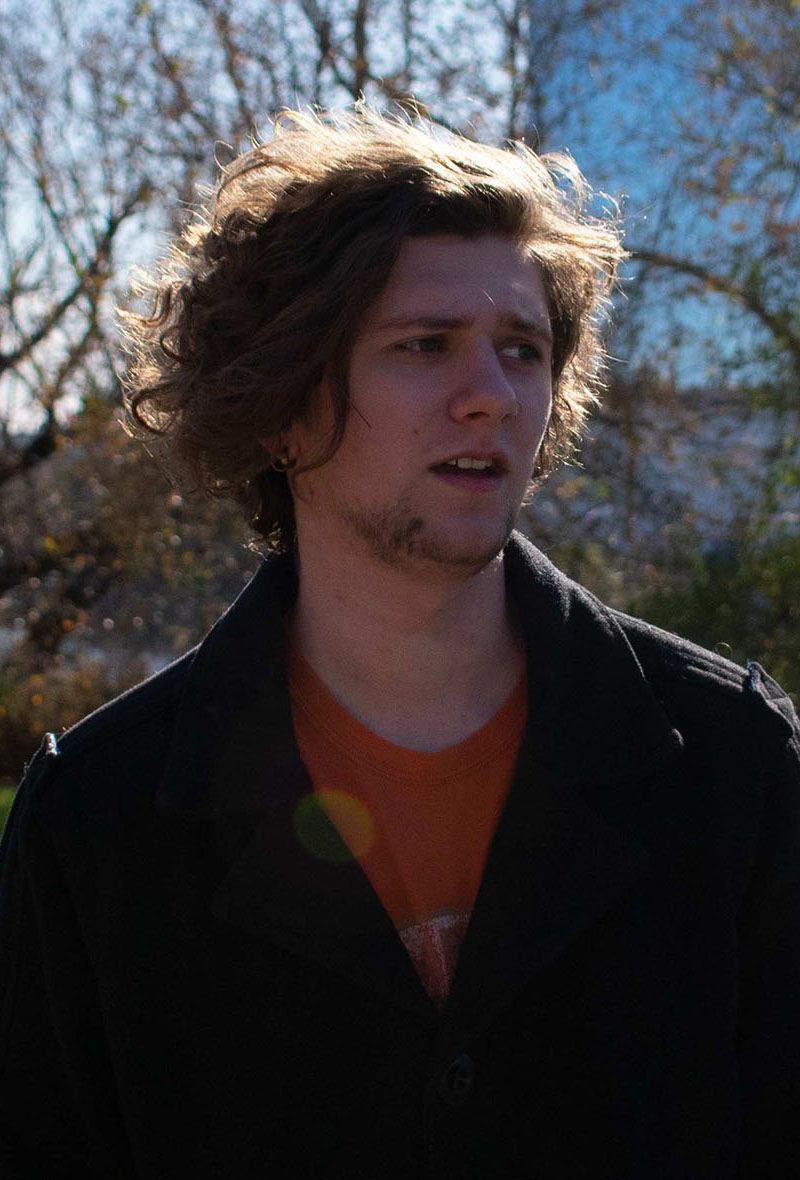
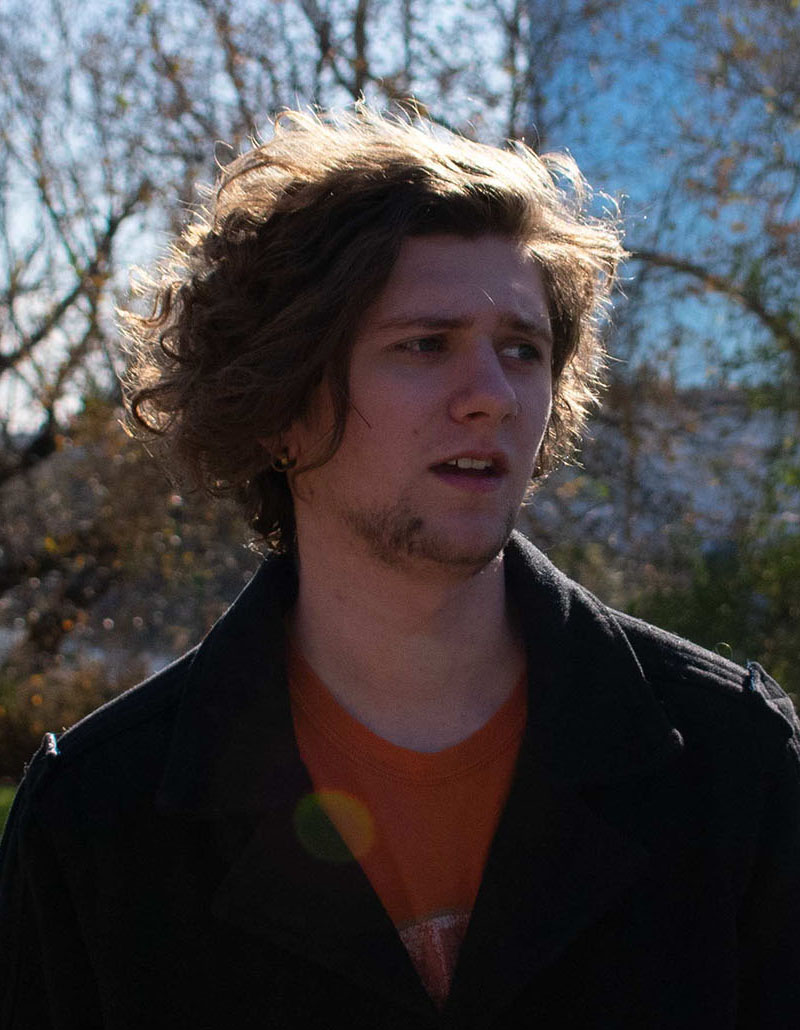
removed weird side border, cropped an image

diff --git a/about.html b/about.html
@@ -65,7 +65,7 @@
                     Hi. I am a student at Drexel University in the Interactive Digital Media program. I transferred in after one year of computer science, having found myself wanting to design a lot more than I wanted to code. I'm able to express myself artistically and creatively in ways I wasn't able to in computer science.
                 </p>
             </div>
-            <div class="main" id="item">
+            <div class="main2">
                 <picture>
                     <source srcset="images/about2.jpg" media="(max-width: 40em)">
                     <img class="indeximage" src="images/about1.jpg" alt="Wynn's Photo">
@@ -95,7 +95,7 @@
                 <li>Bachelor of Science in Interactive Digital Media,</li>
                 <li>User Experience and User Interface Concentration</li>
                 <li>Anticipated Graduation: June 2022</li>
-                <li>Cumulative GPA 3.65</li>
+                <li>Cumulative GPA: 3.65</li>
             </ul>
         </div>
         <div class="main3">
@@ -103,11 +103,11 @@
                 Skills:
             </p>
             <ul class="paragraph">
-                <li><span class="bold">Programming Languages:</span> HTML, CSS, Python</li>
+                <li><span class="bold">Programming Languages:</span> HTML, CSS, Javascript</li>
                 <li><span class="bold">Tools:</span> Adobe Illustrator, Adobe Photoshop, Git, Sketch, Adobe XD, Microsoft Excel, Microsoft Word, Microsoft
                     PowerPoint</li>
                 <li><span class="bold">Operating Systems:</span> Windows 7, 8, 10, IOS, Mac</li>
-                <li><span class="bold">Hardware:</span> PC Building, Disassembly and reassembly of computer parts</li>
+                <li><span class="bold">Hardware:</span> PC Building, Disassembly and reassembly of computers</li>
             </ul>
         </div>
 
@@ -124,10 +124,19 @@
                     User Interface I, II
                 </li>
                 <li>
-                    Human Computer Interaction
+                    Human Computer Interaction I, II
                 </li>
                 <li>
                     Interaction Design
+                </li>
+                <li>
+                    Web Design I, II
+                </li>
+                <li>
+                    Scripting for Interactive Digital Media
+                </li>
+                <li>
+                    Human Factors Engineering
                 </li>
             </ul>
         </div>

diff --git a/index_files/styles.css b/index_files/styles.css
@@ -186,7 +186,7 @@ header ul{
 }
 
 /*a media query so it can tell which menu to use*/
-@media screen and (min-width: 40em) {
+@media screen and (min-width: 40rem) {
     .menu {
       display: none;
     }
@@ -208,24 +208,21 @@ header ul{
         max-width: 15rem;
         margin-top: auto;
         height: 20rem;
-        border-left: 3px solid white;
     }
     .main2{
         max-width: 18rem;
         margin-top: auto;
         height: 20rem;
-        border-left: 3px solid white;
     }
     .main3{
         max-width: 18rem;
         margin-top: auto;
         height: 26rem;
-        border-left: 3px solid white;
     }
 
   }
 
-  @media screen and (max-width: 40em) {
+  @media screen and (max-width: 40rem) {
     .menu {
       display: block;
     }
@@ -246,6 +243,7 @@ p{
     margin-right: 5px;
     text-align: left;
     color:#F4F8FF;
+    list-style: none;
 }
 .main{
     border-top: solid #F4F8FF 5px;

diff --git a/index.html b/index.html
@@ -65,7 +65,7 @@
                     Welcome to my page. I'm Wynn O'Donnell, a Seattle-born design student, currently living in Philadelphia while I attend Drexel University for User Interface and User Experience Design.
                 </p>
             </div>
-            <div class="main" id="item">
+            <div class="main">
                 <picture>
                     <source srcset="images/index2.jpg" media="(max-width: 40em)">
                     <img class="indeximage" src="images/index1.jpg" alt="Wynn's Photo">
